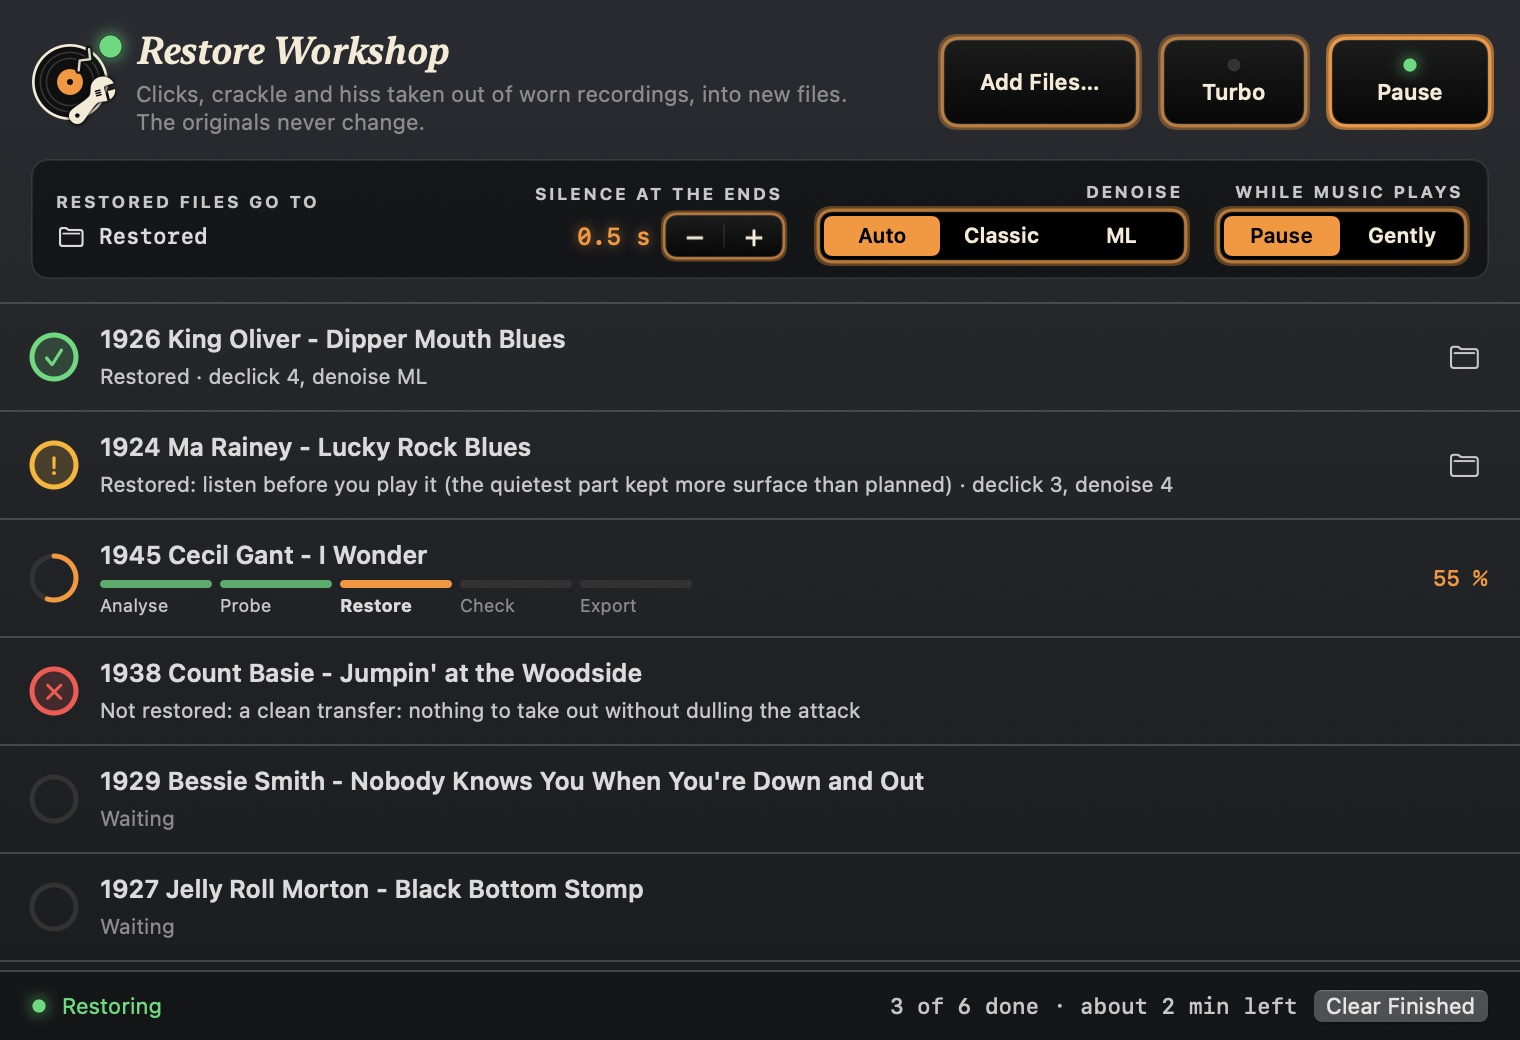
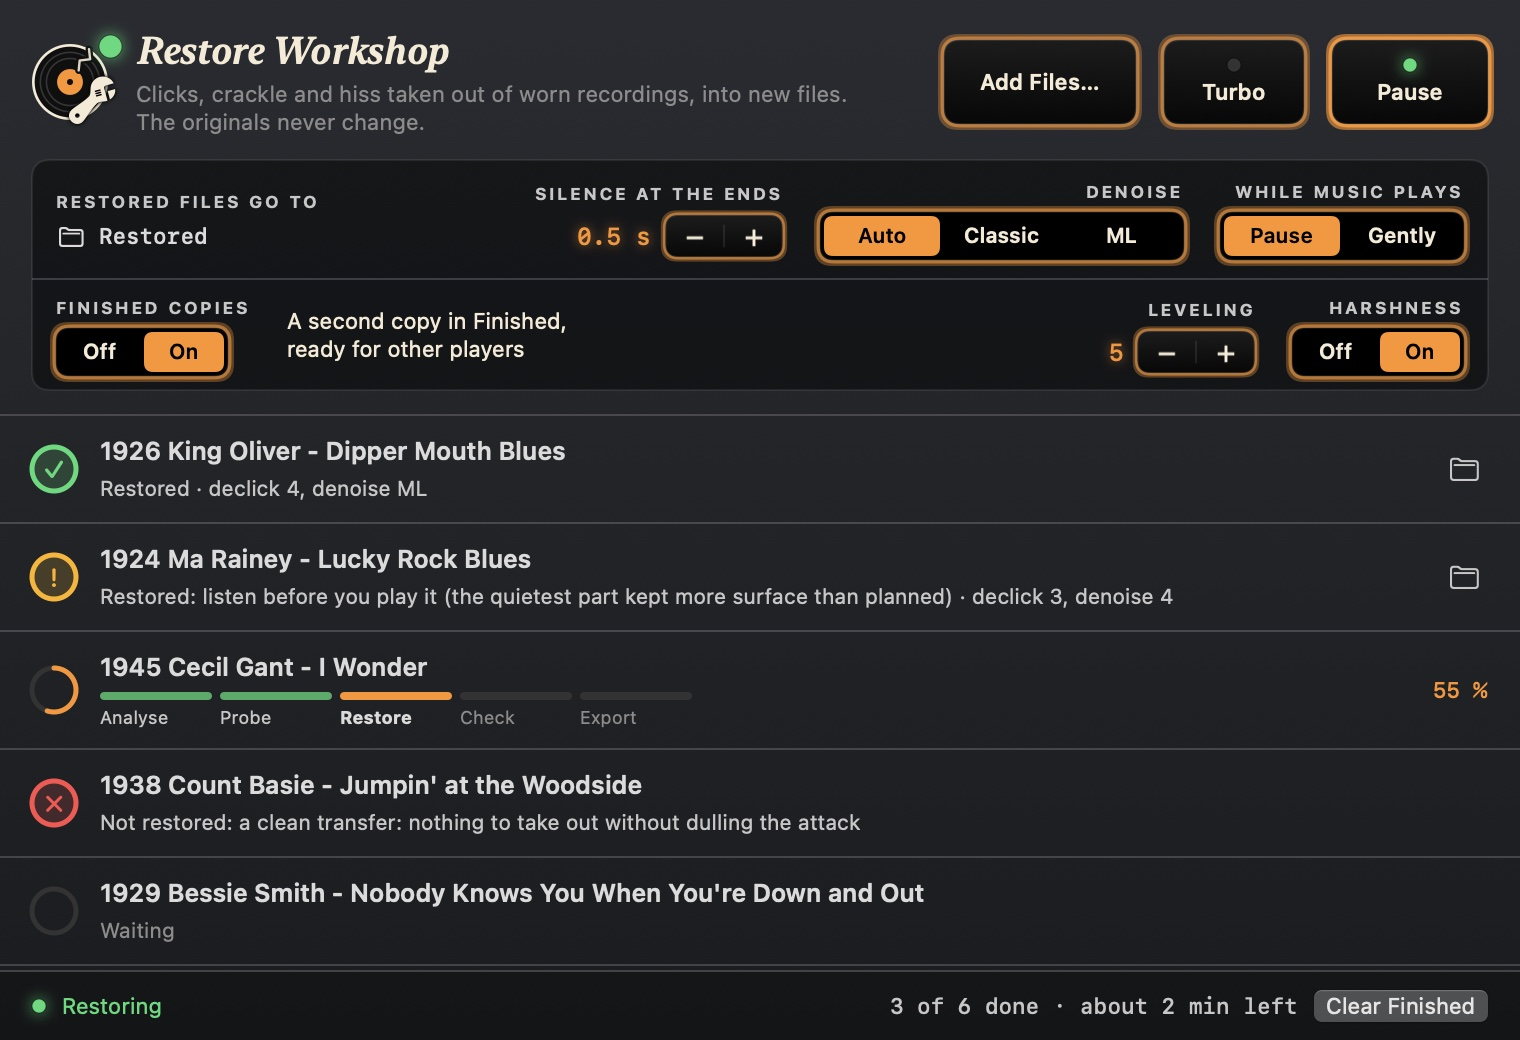
Finished copies for any player, and the workshop's new picture

Changed region(s): [[0.0, 0.2769, 1.0, 0.9538], [0.9276, 0.6462, 0.9895, 0.6769], [0.9586, 0.4308, 0.9895, 0.4615]]

diff --git a/index.html b/index.html
@@ -554,6 +554,8 @@
           measures better there.</li>
         <li><strong>The silence at the ends trimmed</strong> to as much as you want to keep, half a second unless you
           choose otherwise.</li>
+        <li><strong>Finished copies, if you want them:</strong> a second copy of each record, levelled (Soft to
+          Strict) and with its harshness tamed as the room plays it, ready for any other player.</li>
         <li><strong>The room comes first.</strong> While music plays it pauses, or goes on gently on one core. Turbo
           restores several records at once when you are not playing.</li>
         <li><strong>Linked in the library:</strong> the player plays the restored copy in place of the original.</li>
@@ -707,6 +709,7 @@
         <li><b>Leveling inside every track</b><span>Quiet solos lifted, shout choruses held back, breaks left alone.</span></li>
         <li><b>Restore, Room and Ambience</b><span>Worn 78s cleaned up, the sound fitted to the venue, a touch of space for dry recordings.</span></li>
         <li><b>The Restore Workshop</b><span>Worn recordings restored into new Apple Lossless copies in the background, with a classical denoise or a trained model on the Neural Engine, the silence at the ends trimmed.</span></li>
+        <li><b>Finished files for any player</b><span>The workshop's copies also levelled and their harshness tamed as the room plays them, for DJ programs, CDJs and phones.</span></li>
         <li><b>The DJ player</b><span>Up Next, pre-listen at the room's level, and BPM the way swing DJs count.</span></li>
       </ul>
     </div>
@@ -721,7 +724,6 @@
       <p class="when">Later</p>
       <ul>
         <li><b>Slower for class</b><span>Tempo down or up without changing the pitch, in the player, to teach a step at an easier speed.</span></li>
-        <li><b>Levelled files for any player</b><span>The workshop's copies levelled as well as cleaned up, in a batch or as you add them to the library, for DJ programs, CDJs and phones. Your originals are never changed.</span></li>
       </ul>
     </div>
   </div>
